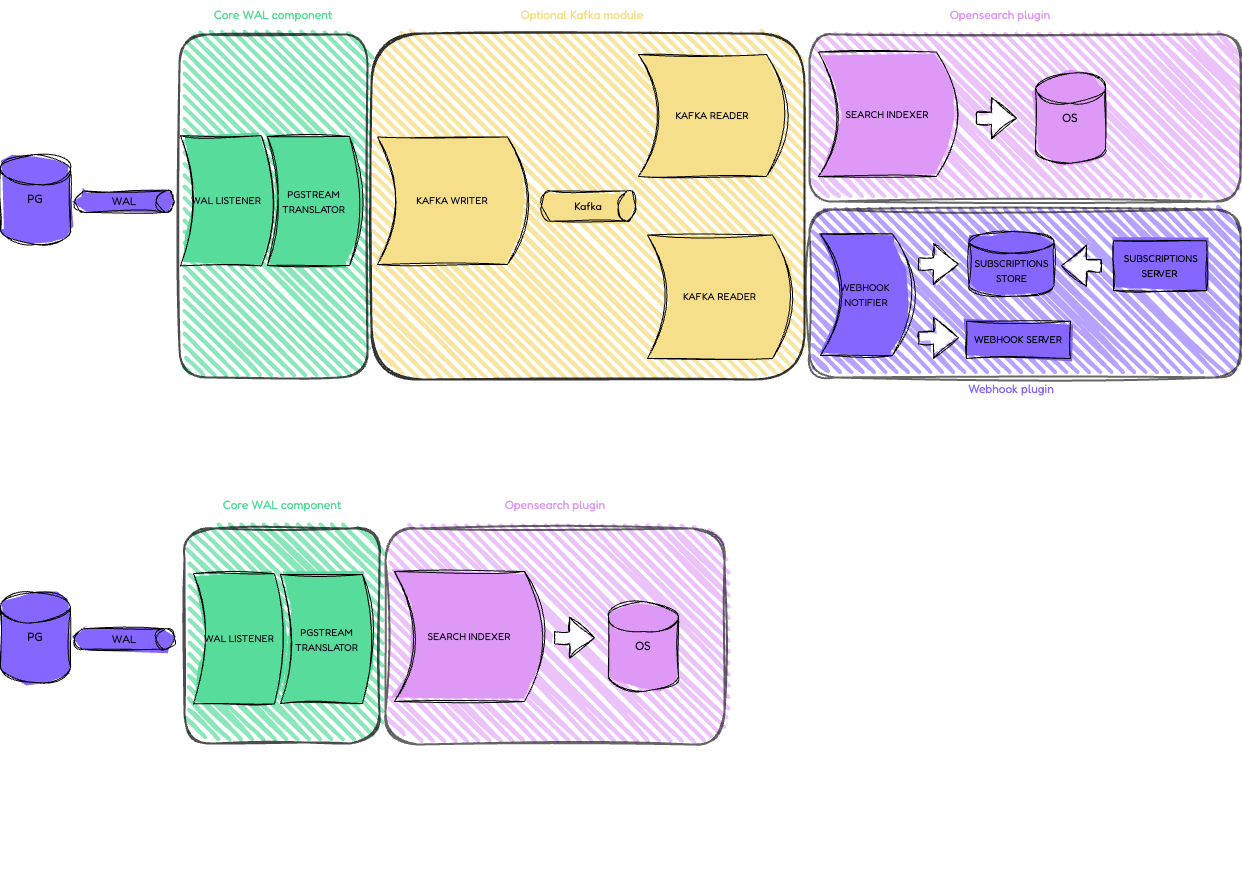
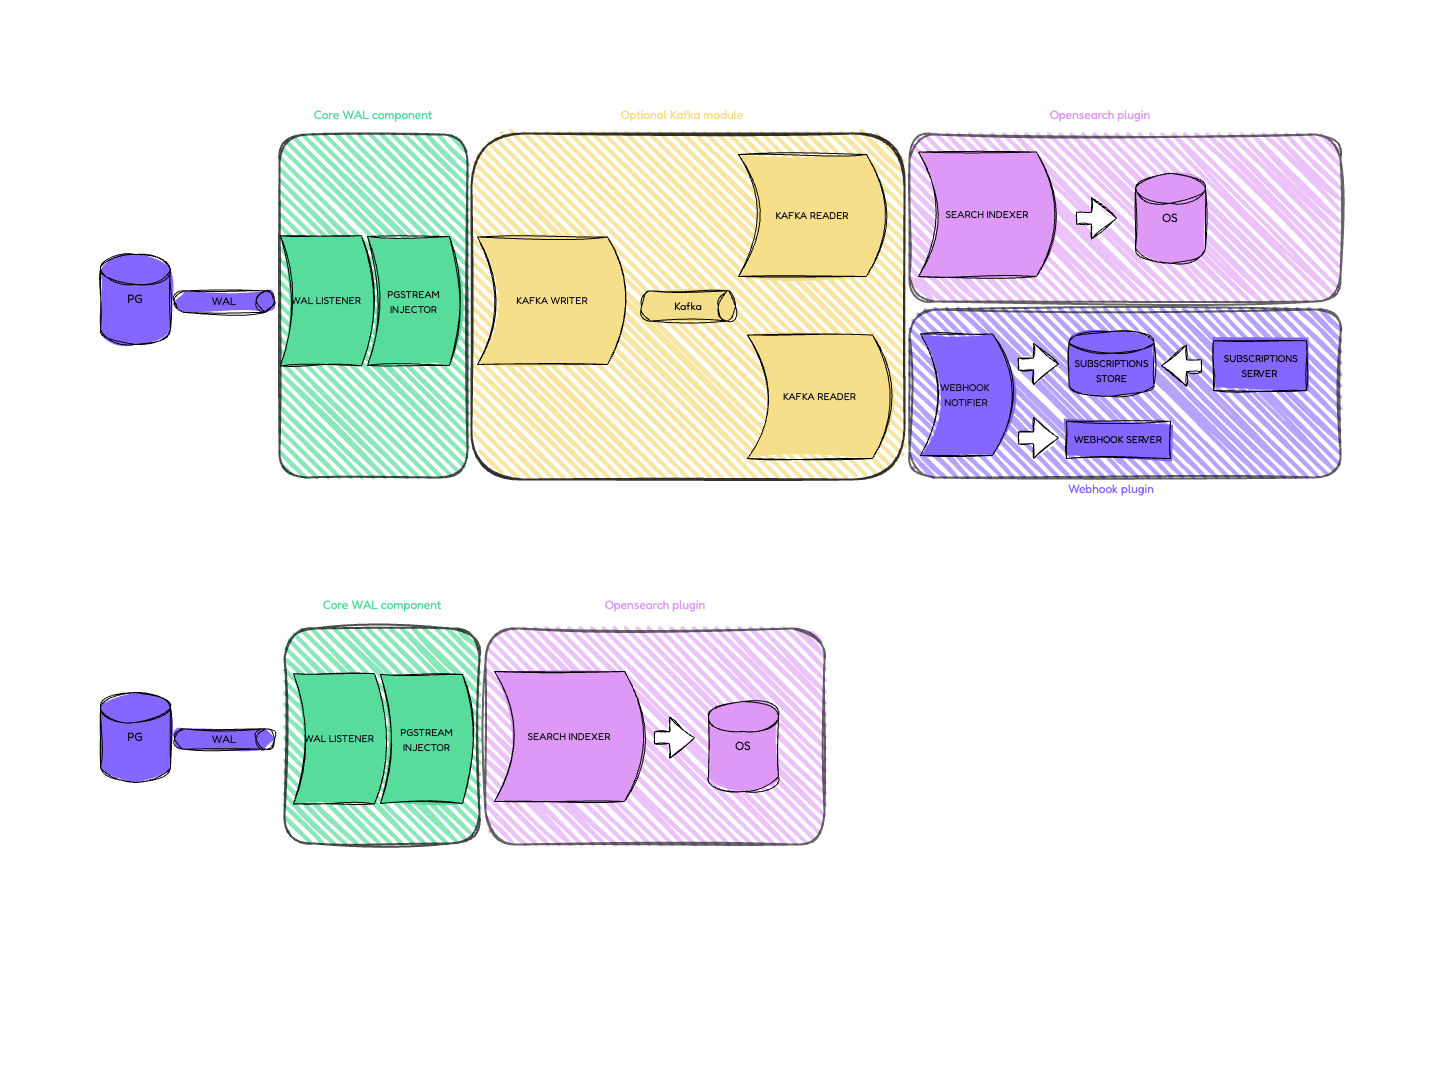
Update readme

diff --git a/README.md b/README.md
@@ -226,11 +226,11 @@ One of exponential/constant backoff policies can be provided for the search stor
 </details>
 
 <details>
-  <summary>Translator</summary>
+  <summary>Injector</summary>
 
-| Environment Variable                   | Default | Required | Description                                                    |
-| -------------------------------------- | ------- | -------- | -------------------------------------------------------------- |
-| PGSTREAM_TRANSLATOR_STORE_POSTGRES_URL | N/A     | Yes      | URL for the postgres URL where the schema log table is stored. |
+| Environment Variable                 | Default | Required | Description                                                    |
+| ------------------------------------ | ------- | -------- | -------------------------------------------------------------- |
+| PGSTREAM_INJECTOR_STORE_POSTGRES_URL | N/A     | Yes      | URL for the postgres URL where the schema log table is stored. |
 
 </details>
 
@@ -272,7 +272,7 @@ There are currently two implementations of the processor:
 
 - **Webhook notifier**: it sends a notification to any webhooks that have subscribed to the relevant wal event. It relies on a subscription HTTP server receiving the subscription requests and storing them in the shared subscription store which is accessed whenever a wal event is processed. It sends the notifications to the different subscribed webhook urls in parallel based on a configurable number of workers (client timeouts apply). Similar to the two previous processor implementations, it uses a memory guarded buffering system internally, which allows to separate the wal event processing from the webhook url sending, optimising the processor latency.
 
-In addition to the implementations described above, there's an optional processor decorator, the **translator**, that injects some of the pgstream logic into the WAL event. This includes:
+In addition to the implementations described above, there's an optional processor decorator, the **injector**, that injects some of the pgstream logic into the WAL event. This includes:
 
 - Data events:
 
